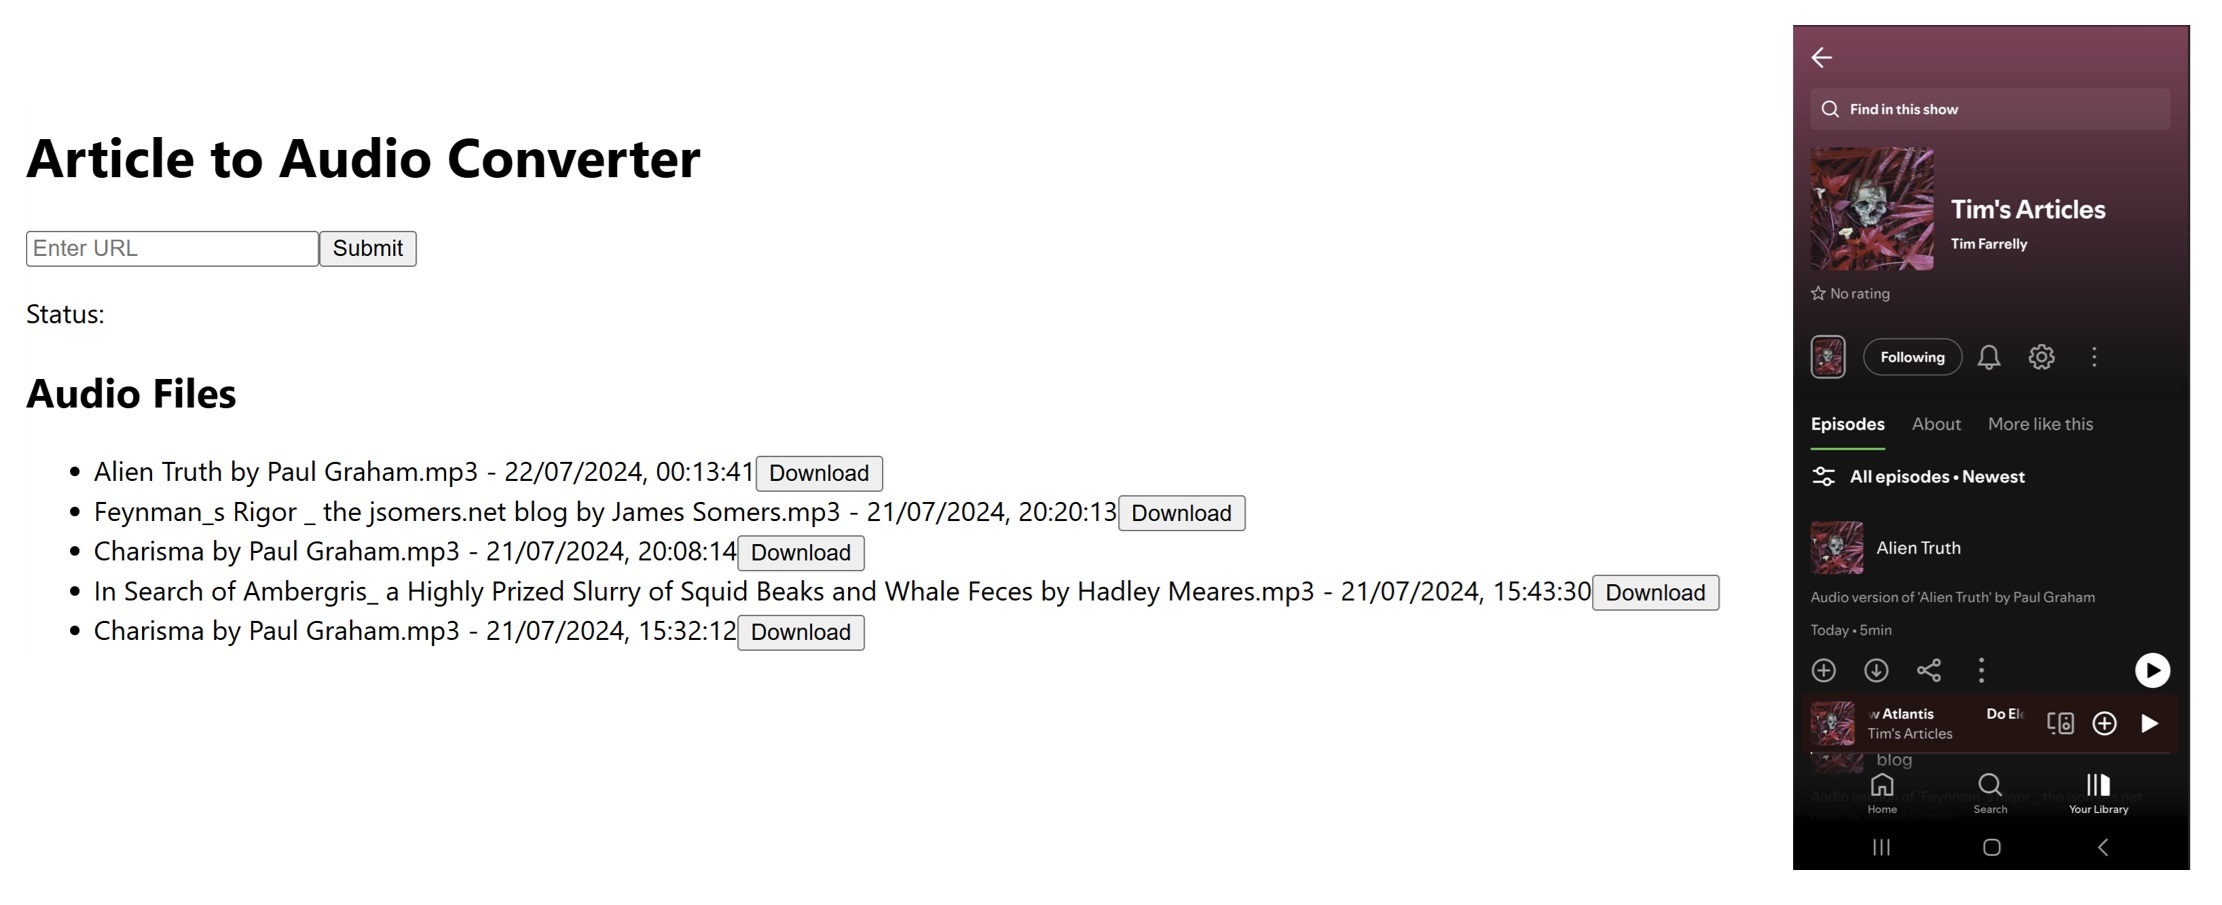
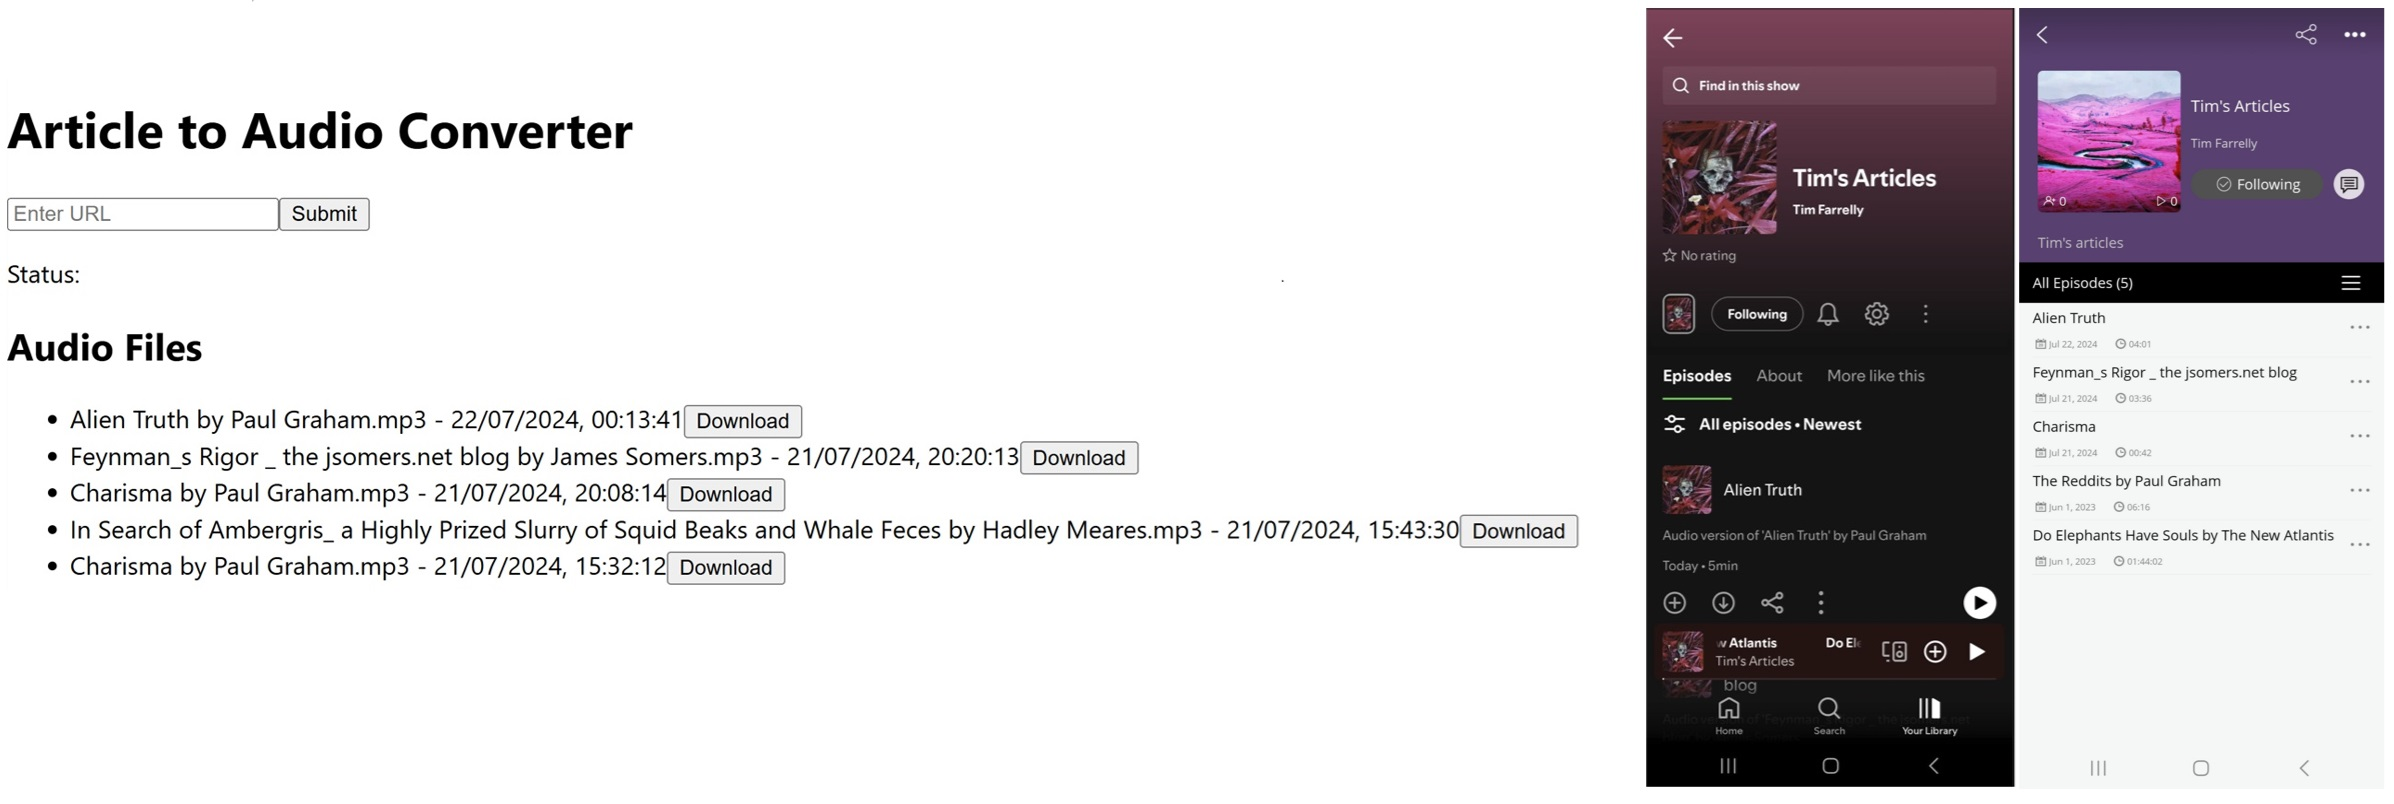
updated README.md and overview_screenshot.jpg image

diff --git a/README.md b/README.md
@@ -15,7 +15,8 @@ It's currently **very** barebones and a work in progress, but the functionality 
 <p align="center">
   <img src="assets/overview_screenshot.jpg" alt="Overview Screenshot" width="800"/>
   <br>
-  <em><strong>Simple</strong> web app (left), synced articles available as a personal podcast on Spotify (right)</em></em>
+  <em><strong>Simple</strong> web app (left), synced articles available as a personal podcast on Spotify, Podbean, etc. 
+  (right)</em></em>
 </p>
 
 
